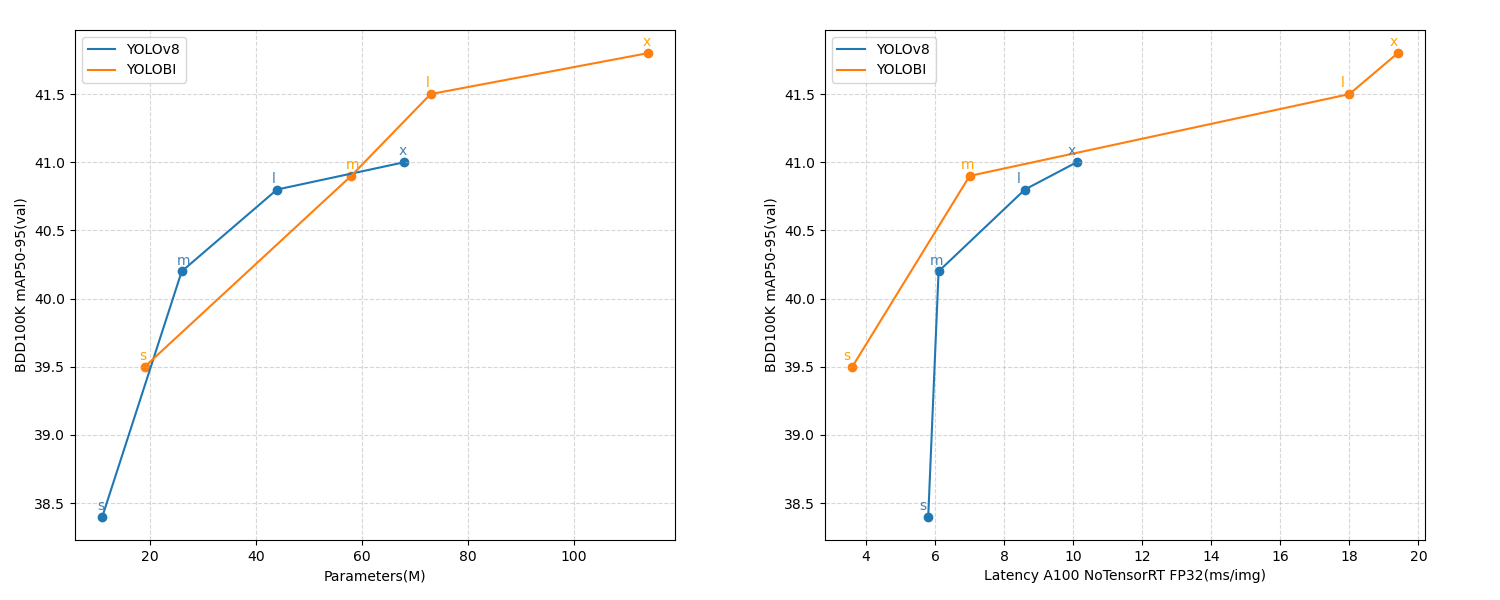
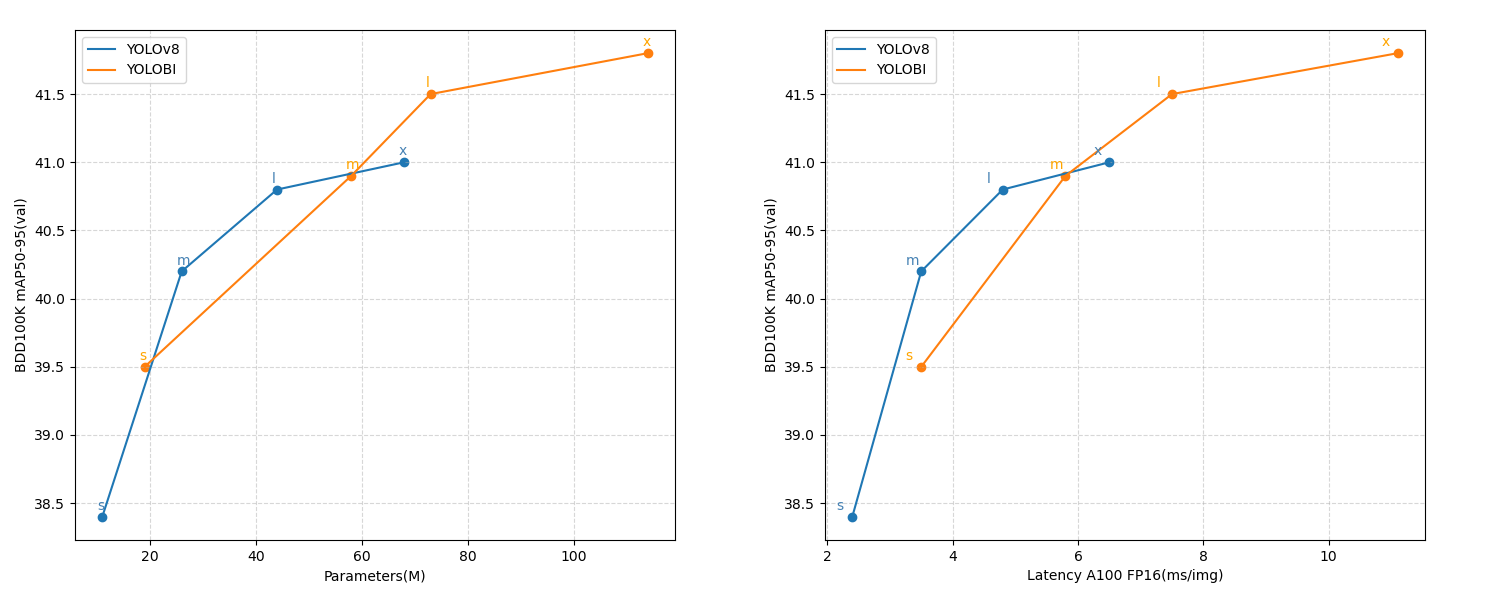
update

diff --git a/model/__init__.py b/model/__init__.py
@@ -1,0 +1,64 @@
+import cv2
+import math
+import torch
+import numpy as np
+from util import color
+import matplotlib.pyplot as plt
+
+x1 = [round(x / 1e6) for x in [11129454, 25845550, 43614318, 68133198]]
+p1 = [round(x * 1e2, 1) for x in [0.3842, 0.4021, 0.4085, 0.4098]]
+s1 = [round(x * 1e3, 1) for x in [0.00245, 0.00346, 0.00479, 0.00654]]
+
+x2 = [round(x / 1e6) for x in [19082040, 58248408, 72660920, 113512792]]
+p2 = [round(x * 1e2, 1) for x in [0.3946, 0.4086, 0.4149, 0.4183]]
+s2 = [round(x * 1e3, 1) for x in [0.00346, 0.00579, 0.00748, 0.0111]]
+
+plt.figure(figsize=(15, 6))
+
+plt.subplots_adjust(top=0.95, bottom=0.1, left=0.05, right=0.95, hspace=0.25, wspace=0.25)
+plt.subplot(1, 2, 1)
+plt.xlabel('Parameters(M)')
+plt.ylabel('BDD100K mAP50-95(val)')
+
+plt.plot(x1, p1, label='YOLOv8')
+plt.plot(x2, p2, label='YOLOBI')
+plt.scatter(x1, p1)
+plt.scatter(x2, p2)
+plt.legend()
+
+
+plt.text(x1[0] - 1, p1[0] + 0.05, 's', color='steelblue')
+plt.text(x1[1] - 1, p1[1] + 0.05, 'm', color='steelblue')
+plt.text(x1[2] - 1, p1[2] + 0.05, 'l', color='steelblue')
+plt.text(x1[3] - 1, p1[3] + 0.05, 'x', color='steelblue')
+
+plt.text(x2[0] - 1, p2[0] + 0.05, 's', color='orange')
+plt.text(x2[1] - 1, p2[1] + 0.05, 'm', color='orange')
+plt.text(x2[2] - 1, p2[2] + 0.05, 'l', color='orange')
+plt.text(x2[3] - 1, p2[3] + 0.05, 'x', color='orange')
+plt.grid(True, linestyle="--", alpha=0.5)
+
+
+plt.subplot(1, 2, 2)
+plt.xlabel('Latency A100 FP16(ms/img)')
+plt.ylabel('BDD100K mAP50-95(val)')
+
+plt.plot(s1, p1, label='YOLOv8')
+plt.plot(s2, p2, label='YOLOBI')
+plt.scatter(s1, p1)
+plt.scatter(s2, p2)
+plt.legend()
+
+
+plt.text(s1[0] - 0.25, p1[0] + 0.05, 's', color='steelblue')
+plt.text(s1[1] - 0.25, p1[1] + 0.05, 'm', color='steelblue')
+plt.text(s1[2] - 0.25, p1[2] + 0.05, 'l', color='steelblue')
+plt.text(s1[3] - 0.25, p1[3] + 0.05, 'x', color='steelblue')
+
+plt.text(s2[0] - 0.25, p2[0] + 0.05, 's', color='orange')
+plt.text(s2[1] - 0.25, p2[1] + 0.05, 'm', color='orange')
+plt.text(s2[2] - 0.25, p2[2] + 0.05, 'l', color='orange')
+plt.text(s2[3] - 0.25, p2[3] + 0.05, 'x', color='orange')
+plt.grid(True, linestyle="--", alpha=0.5)
+
+plt.show()

diff --git a/README.md b/README.md
@@ -10,13 +10,13 @@ We released the largest and most diverse driving video dataset with rich annotat
 
 <img alt="BDD100K.png" src="assert%2FBDD100K.png" width="1500"/>
 
-| Model                                                                                | size(width * height) | mAP50-95 val | Speed A100 NoTensorRT FP32(ms) | params(M) | FLOPs(G) |
-|--------------------------------------------------------------------------------------|----------------------|--------------|--------------------------------|-----------|----------|
-| [YOLOv8s](https://github.com/ultralytics/assets/releases/download/v0.0.0/yolov8n.pt) | 960 * 544            | 38.4         | 5.8                            | 11.1      | 36.3     |
-| [YOLOv8m](https://github.com/ultralytics/assets/releases/download/v0.0.0/yolov8s.pt) | 960 * 544            | 40.2         | 6.1                            | 25.8      | 100.4    |
-| [YOLOv8l](https://github.com/ultralytics/assets/releases/download/v0.0.0/yolov8m.pt) | 960 * 544            | 40.9         | 8.6                            | 43.6      | 210.2    |
-| [YOLOv8x](https://github.com/ultralytics/assets/releases/download/v0.0.0/yolov8l.pt) | 960 * 544            | 41.0         | 10.1                           | 68.1      | 328.2    |
-| [YOLOBis](https://github.com/ultralytics/assets/releases/download/v0.0.0/yolov8x.pt) | 1280 * 704           | 39.5         | 3.6                            | 19.1      | 65.1     |
-| [YOLOBim](https://github.com/ultralytics/assets/releases/download/v0.0.0/yolov8x.pt) | 1280 * 704           | 40.9         | 7.0                            | 58.2      | 197.3    |
-| [YOLOBil](https://github.com/ultralytics/assets/releases/download/v0.0.0/yolov8x.pt) | 1280 * 704           | 41.5         | 18.0                           | 72.7      | 329.0    |
-| [YOLOBix](https://github.com/ultralytics/assets/releases/download/v0.0.0/yolov8x.pt) | 1280 * 704           | 42.0         | 19.4                           | 113.5     | 513.7    |
+| Model                                                                                | size(width * height) | mAP50-95 val | Speed A100 FP16(ms) | params(M) | FLOPs(G) |
+|--------------------------------------------------------------------------------------|----------------------|--------------|---------------------|-----------|----------|
+| [YOLOv8s](https://github.com/ultralytics/assets/releases/download/v0.0.0/yolov8n.pt) | 960 * 544            | 38.4         | 5.8                 | 11.1      | 36.3     |
+| [YOLOv8m](https://github.com/ultralytics/assets/releases/download/v0.0.0/yolov8s.pt) | 960 * 544            | 40.2         | 6.1                 | 25.8      | 100.4    |
+| [YOLOv8l](https://github.com/ultralytics/assets/releases/download/v0.0.0/yolov8m.pt) | 960 * 544            | 40.9         | 8.6                 | 43.6      | 210.2    |
+| [YOLOv8x](https://github.com/ultralytics/assets/releases/download/v0.0.0/yolov8l.pt) | 960 * 544            | 41.0         | 10.1                | 68.1      | 328.2    |
+| [YOLOBis](https://github.com/ultralytics/assets/releases/download/v0.0.0/yolov8x.pt) | 1280 * 704           | 39.5         | 3.6                 | 19.1      | 65.1     |
+| [YOLOBim](https://github.com/ultralytics/assets/releases/download/v0.0.0/yolov8x.pt) | 1280 * 704           | 40.9         | 7.0                 | 58.2      | 197.3    |
+| [YOLOBil](https://github.com/ultralytics/assets/releases/download/v0.0.0/yolov8x.pt) | 1280 * 704           | 41.5         | 18.0                | 72.7      | 329.0    |
+| [YOLOBix](https://github.com/ultralytics/assets/releases/download/v0.0.0/yolov8x.pt) | 1280 * 704           | 42.0         | 19.4                | 113.5     | 513.7    |
